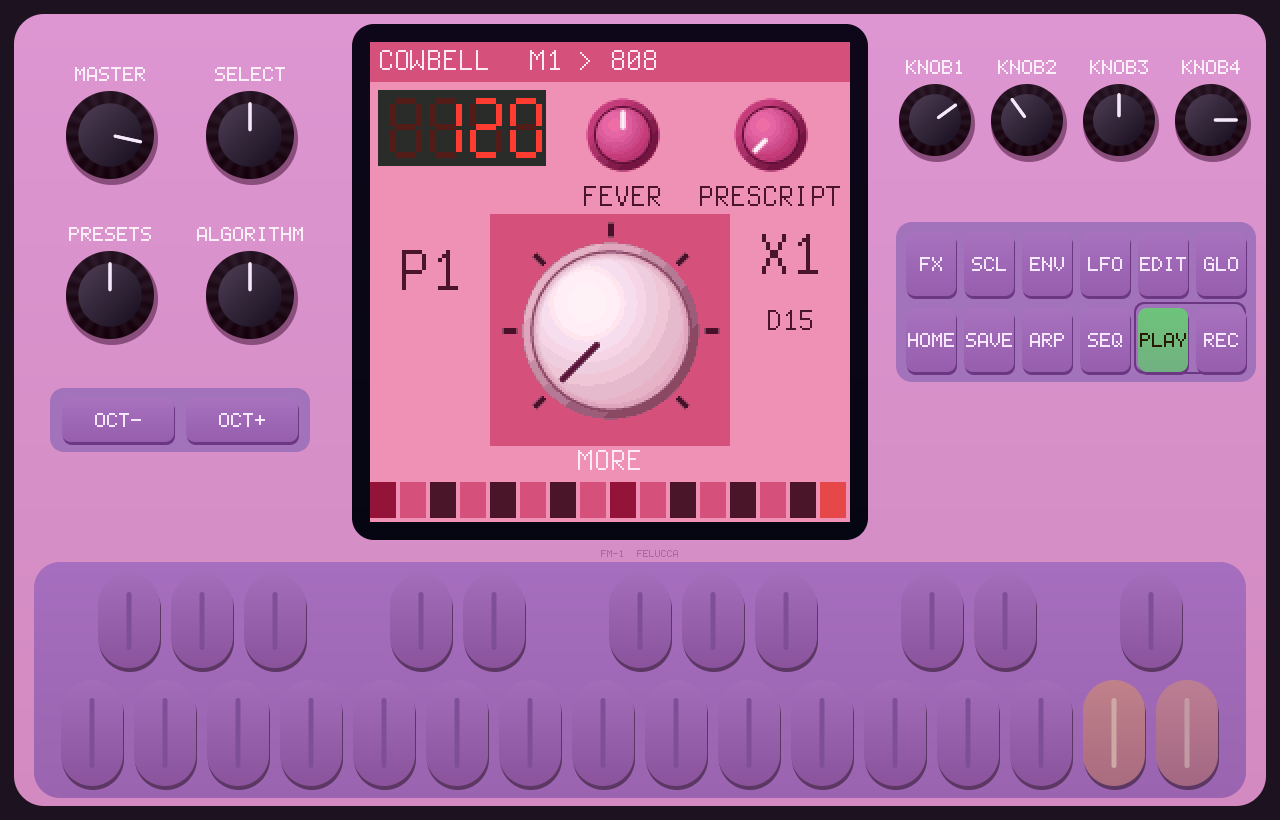
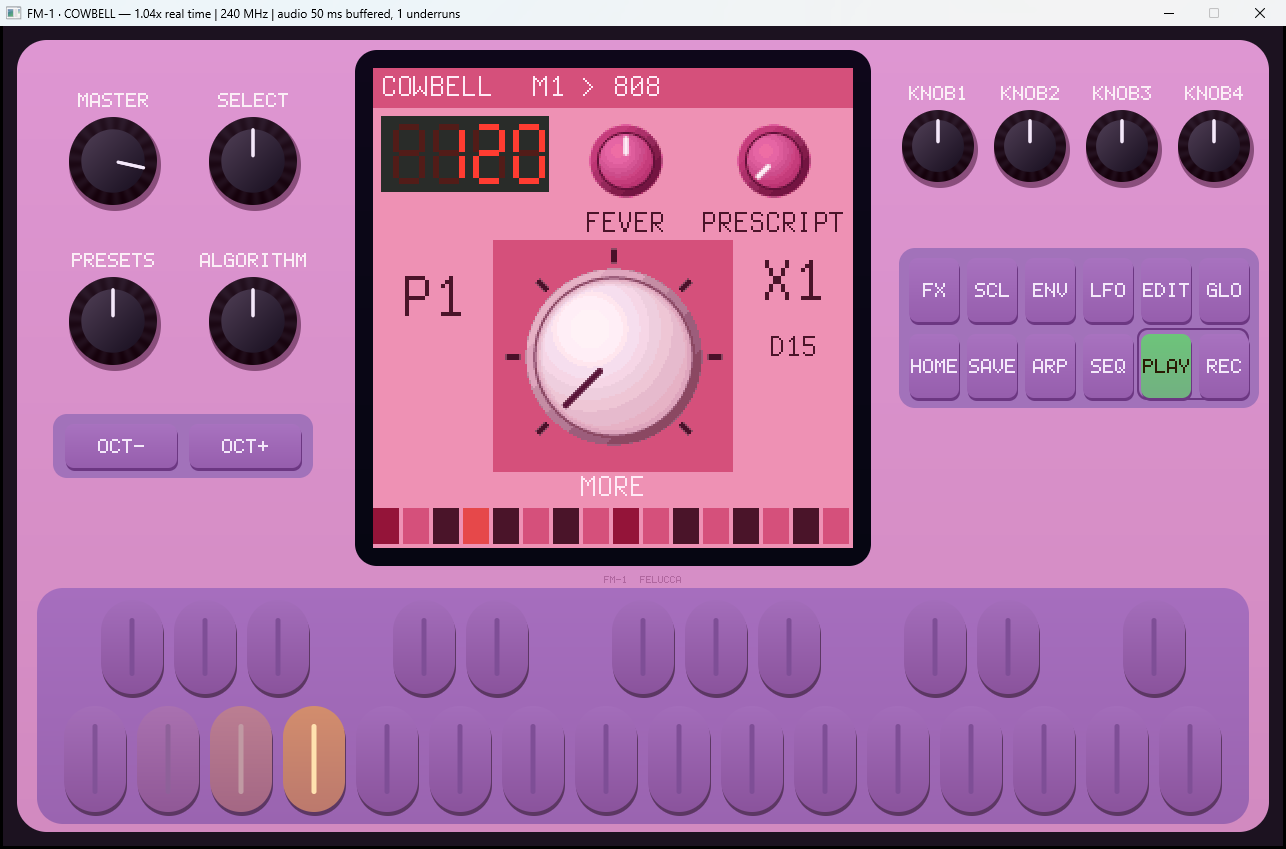
Use a screenshot of the running emulator in the README
The fm1-emu window itself, with COWBELL playing its first pattern, in place of the
headless panel render.

diff --git a/README.md b/README.md
@@ -12,7 +12,7 @@ The firmware only comes with 22 KHz sample sounds, but you can use the sample up
 
 <img src="docs/cowbell_screen.png" width="240" alt="COWBELL's screen: tempo 120, FEVER and PRESCRIPTION knobs, a giant MORE knob, part P1 playing the 808 cowbell, and the 16 steps along the bottom">
 
-COWBELL playing its first pattern on a pink FM-1 (in the fm1-emu emulator):
+COWBELL playing its first pattern in the fm1-emu emulator, skinned as a pink FM-1:
 
 ![COWBELL running on an emulated pink and purple FM-1, PLAY lit and the pattern's step lights on the keys](docs/cowbell_emulator.png)
 
